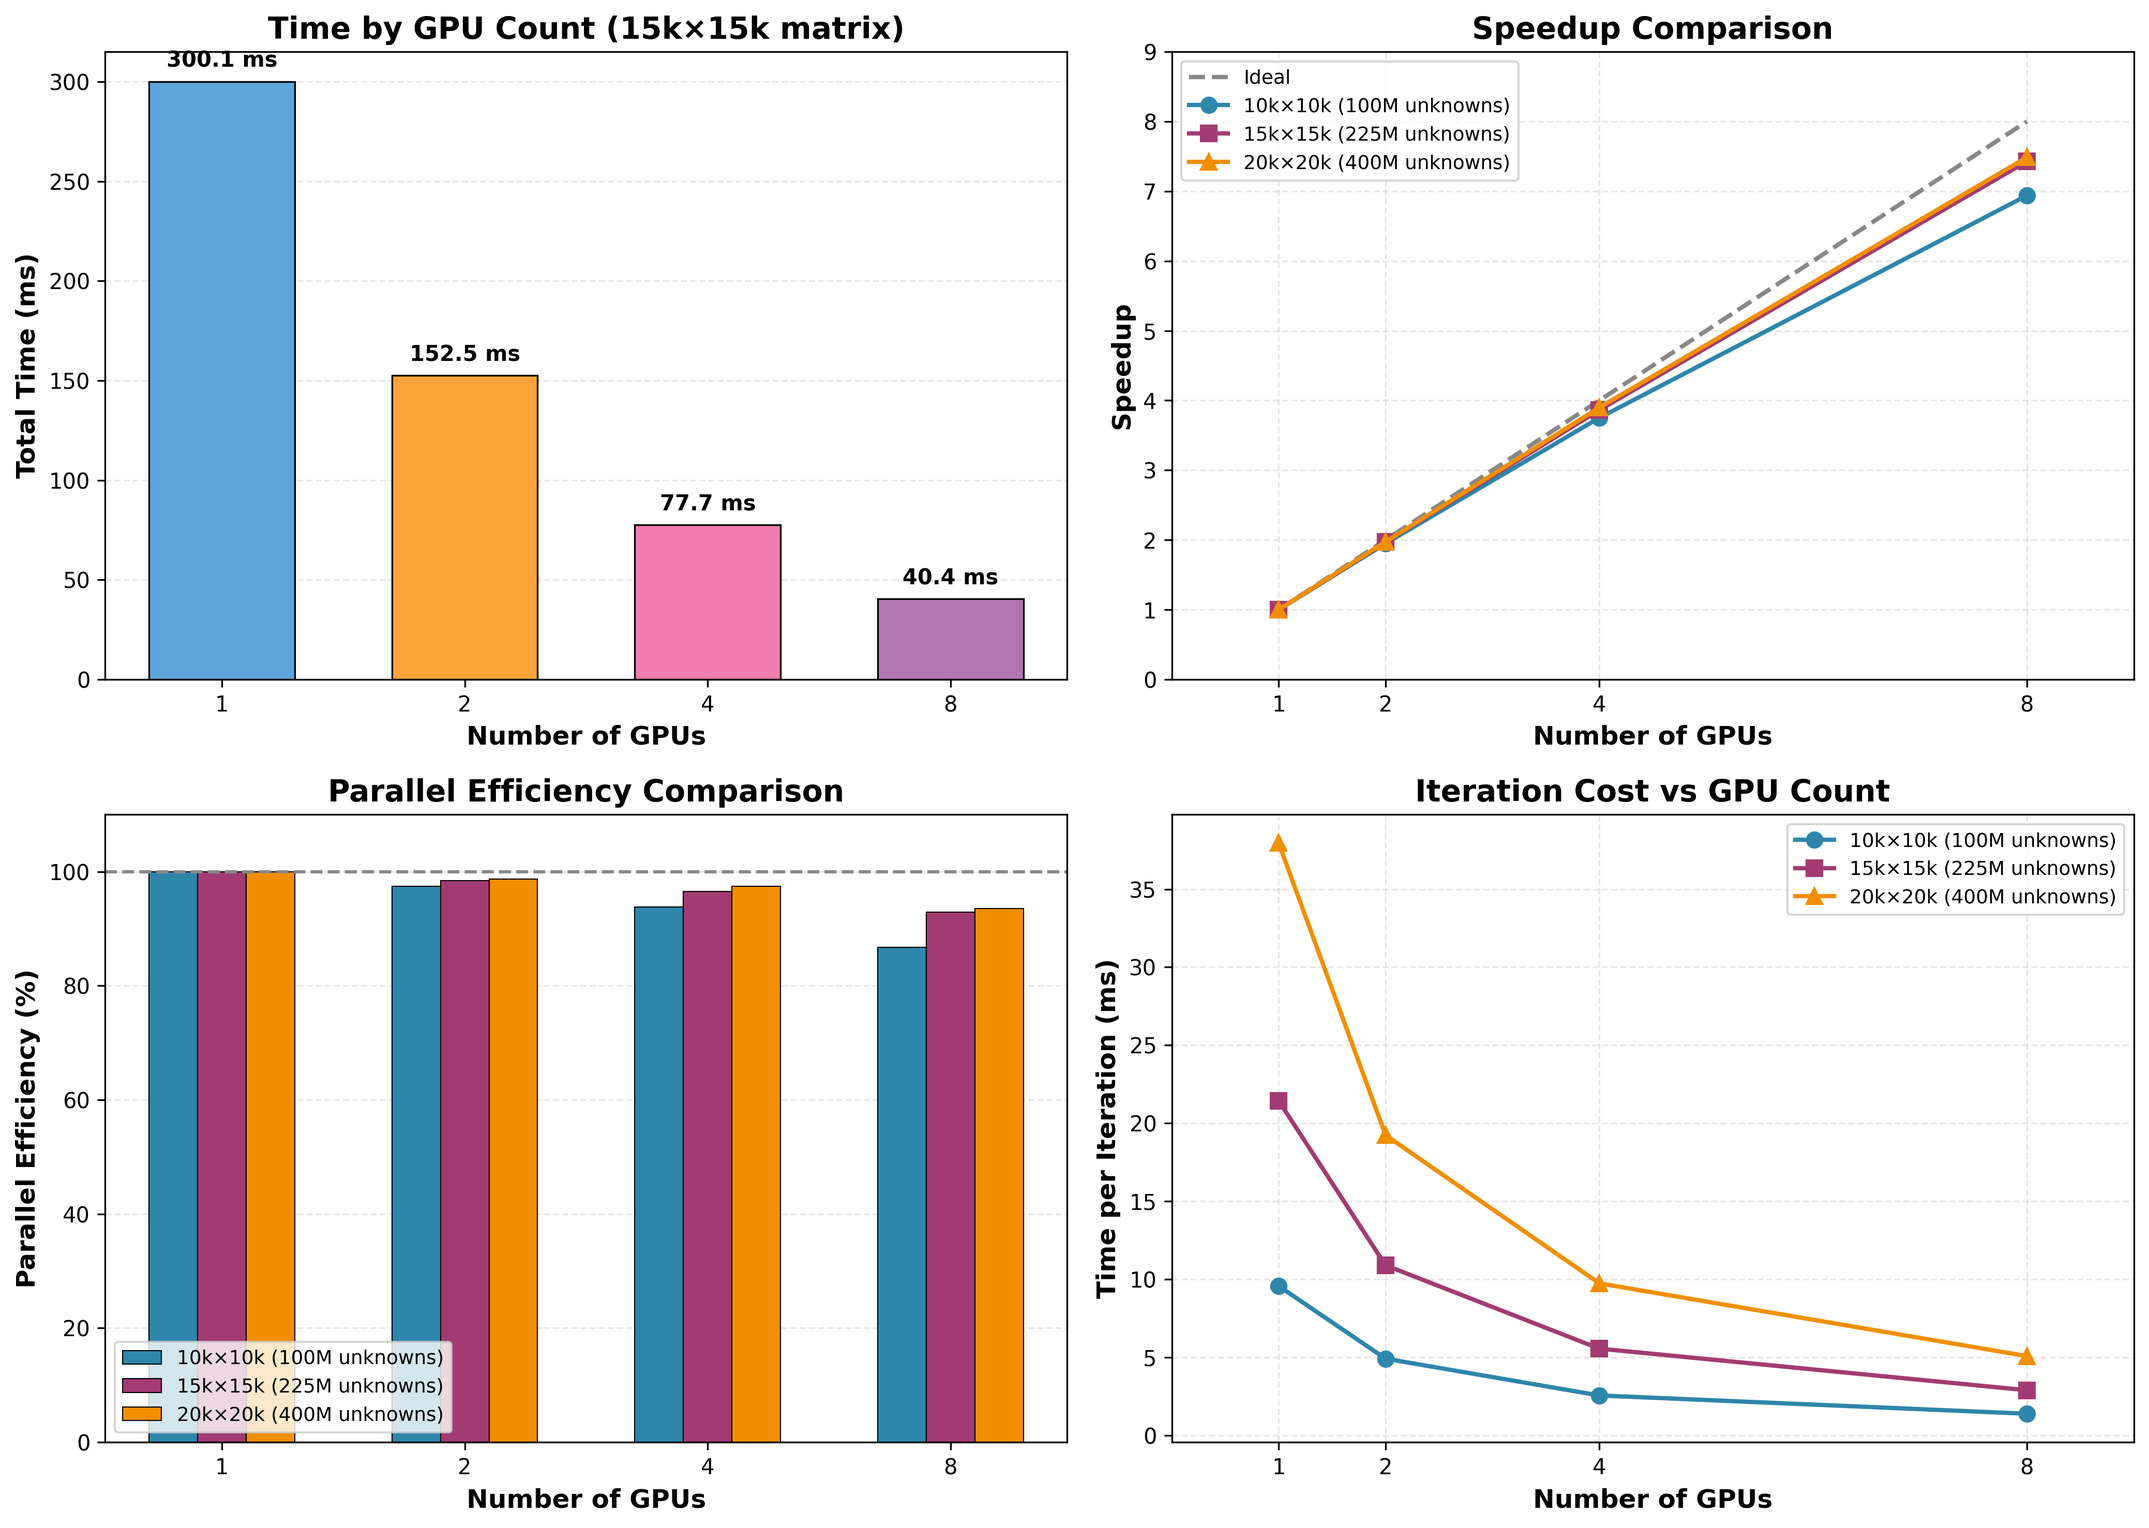
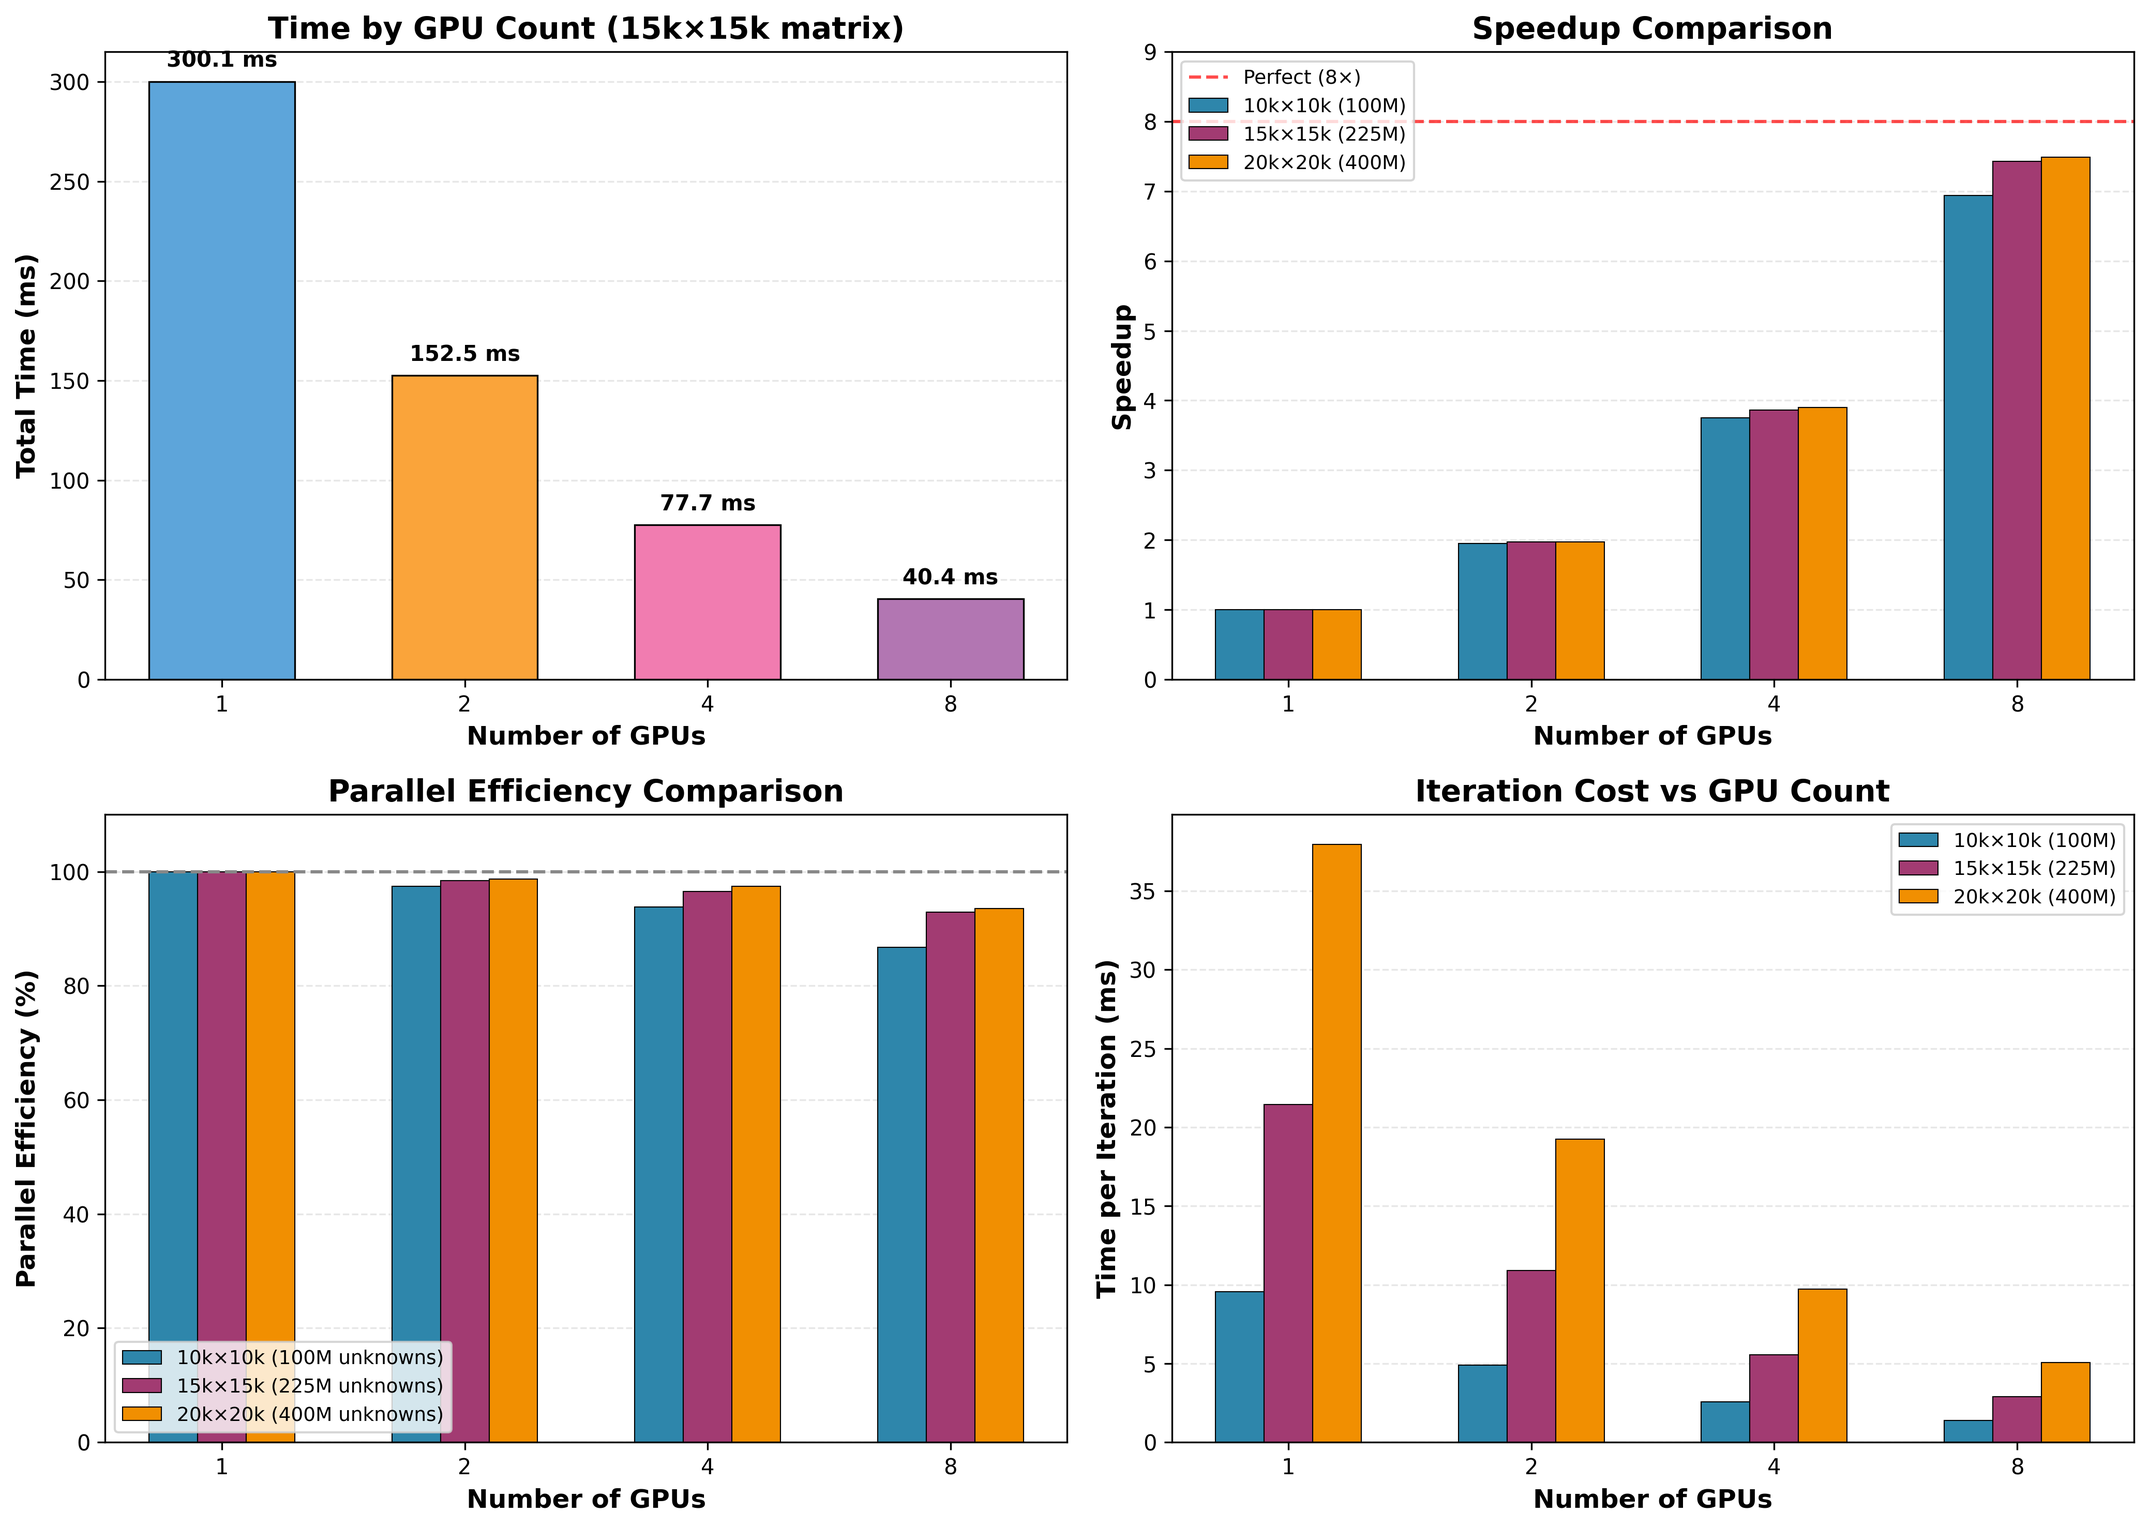
Switch scaling plots from line charts to bar charts

diff --git a/scripts/visualizations/plot_problem_size_scaling.py b/scripts/visualizations/plot_problem_size_scaling.py
@@ -53,54 +53,67 @@ color_ideal = '#888888'
 # ============================================================================
 fig, (ax1, ax2, ax3) = plt.subplots(1, 3, figsize=(16, 5))
 
-# Panel 1: Total Time
-ax1.plot(gpus, times_10k, 'o--', color=color_10k, linewidth=2, markersize=7,
-         label='10k×10k (100M unknowns)')
-ax1.plot(gpus, times_15k, 's-', color=color_15k, linewidth=2, markersize=7,
-         label='15k×15k (225M unknowns)')
-ax1.plot(gpus, times_20k, '^-', color=color_20k, linewidth=2, markersize=7,
-         label='20k×20k (400M unknowns)')
+x_cat = np.arange(len(gpus))
+gpu_labels = ['1', '2', '4', '8']
+width_bar = 0.25
+offsets = [-width_bar, 0, width_bar]
+size_labels = ['10k×10k', '15k×15k', '20k×20k']
+
+# Panel 1: Total Time (grouped bars - categorical x)
+for i, (times, color, label) in enumerate([
+    (times_10k, color_10k, '10k×10k (100M)'),
+    (times_15k, color_15k, '15k×15k (225M)'),
+    (times_20k, color_20k, '20k×20k (400M)'),
+]):
+    ax1.bar(x_cat + offsets[i], times, width=width_bar, color=color,
+            edgecolor='black', linewidth=0.5, label=label)
 ax1.set_xlabel('Number of GPUs', fontweight='bold')
 ax1.set_ylabel('Total Time (ms)', fontweight='bold')
 ax1.set_title('Strong Scaling: Total Time', fontweight='bold')
-ax1.set_xticks(gpus)
-ax1.set_xlim(0, 9)
+ax1.set_xticks(x_cat)
+ax1.set_xticklabels(gpu_labels)
 ax1.legend(loc='upper right', fontsize=9)
-ax1.grid(True, alpha=0.3, linestyle='--')
+ax1.grid(axis='y', alpha=0.3, linestyle='--')
+ax1.set_axisbelow(True)
 
-# Panel 2: Speedup
-ax2.plot(gpus, gpus, '--', color=color_ideal, linewidth=2, label='Ideal (100%)')
-ax2.plot(gpus, speedups_10k, 'o--', color=color_10k, linewidth=2, markersize=7,
-         label='10k×10k (100M unknowns)')
-ax2.plot(gpus, speedups_15k, 's-', color=color_15k, linewidth=2, markersize=7,
-         label='15k×15k (225M unknowns)')
-ax2.plot(gpus, speedups_20k, '^-', color=color_20k, linewidth=2, markersize=7,
-         label='20k×20k (400M unknowns)')
+# Panel 2: Speedup (grouped bars - categorical x)
+for i, (spd, color, label) in enumerate([
+    (speedups_10k, color_10k, '10k×10k (100M)'),
+    (speedups_15k, color_15k, '15k×15k (225M)'),
+    (speedups_20k, color_20k, '20k×20k (400M)'),
+]):
+    ax2.bar(x_cat + offsets[i], spd, width=width_bar, color=color,
+            edgecolor='black', linewidth=0.5, label=label)
+ax2.axhline(y=8, color='red', linestyle='--', linewidth=1.5, alpha=0.7,
+            label='Perfect (8×)')
 ax2.set_xlabel('Number of GPUs', fontweight='bold')
 ax2.set_ylabel('Speedup', fontweight='bold')
 ax2.set_title('Strong Scaling: Speedup', fontweight='bold')
-ax2.set_xticks(gpus)
-ax2.set_xlim(0, 9)
+ax2.set_xticks(x_cat)
+ax2.set_xticklabels(gpu_labels)
 ax2.set_ylim(0, 9)
 ax2.legend(loc='upper left', fontsize=9)
-ax2.grid(True, alpha=0.3, linestyle='--')
+ax2.grid(axis='y', alpha=0.3, linestyle='--')
+ax2.set_axisbelow(True)
 
-# Panel 3: Efficiency
-ax3.plot(gpus, efficiency_10k, 'o--', color=color_10k, linewidth=2, markersize=7,
-         label='10k×10k (100M unknowns)')
-ax3.plot(gpus, efficiency_15k, 's-', color=color_15k, linewidth=2, markersize=7,
-         label='15k×15k (225M unknowns)')
-ax3.plot(gpus, efficiency_20k, '^-', color=color_20k, linewidth=2, markersize=7,
-         label='20k×20k (400M unknowns)')
-ax3.axhline(y=100, color=color_ideal, linestyle='--', linewidth=2, label='Ideal')
+# Panel 3: Efficiency (grouped bars - categorical x)
+for i, (eff, color, label) in enumerate([
+    (efficiency_10k, color_10k, '10k×10k (100M)'),
+    (efficiency_15k, color_15k, '15k×15k (225M)'),
+    (efficiency_20k, color_20k, '20k×20k (400M)'),
+]):
+    ax3.bar(x_cat + offsets[i], eff, width=width_bar, color=color,
+            edgecolor='black', linewidth=0.5, label=label)
+ax3.axhline(y=100, color=color_ideal, linestyle='--', linewidth=1.5, label='Ideal')
 ax3.set_xlabel('Number of GPUs', fontweight='bold')
 ax3.set_ylabel('Parallel Efficiency (%)', fontweight='bold')
 ax3.set_title('Strong Scaling: Efficiency', fontweight='bold')
-ax3.set_xticks(gpus)
-ax3.set_xlim(0, 9)
+ax3.set_xticks(x_cat)
+ax3.set_xticklabels(gpu_labels)
 ax3.set_ylim(80, 105)
 ax3.legend(loc='lower left', fontsize=9)
-ax3.grid(True, alpha=0.3, linestyle='--')
+ax3.grid(axis='y', alpha=0.3, linestyle='--')
+ax3.set_axisbelow(True)
 
 plt.tight_layout()
 plt.savefig('docs/figures/problem_size_scaling_overview.png', dpi=300,
@@ -131,22 +144,27 @@ ax1.set_xticklabels(gpu_labels)
 ax1.grid(axis='y', alpha=0.3, linestyle='--')
 ax1.set_axisbelow(True)
 
-# Panel 2: Speedup Comparison (all 3 sizes, line plot - linear x)
-ax2.plot(gpus, gpus, '--', color=color_ideal, linewidth=2, label='Ideal')
-ax2.plot(gpus, speedups_10k, 'o-', color=color_10k, linewidth=2, markersize=7,
-         label='10k×10k (100M unknowns)')
-ax2.plot(gpus, speedups_15k, 's-', color=color_15k, linewidth=2, markersize=7,
-         label='15k×15k (225M unknowns)')
-ax2.plot(gpus, speedups_20k, '^-', color=color_20k, linewidth=2, markersize=7,
-         label='20k×20k (400M unknowns)')
+# Panel 2: Speedup Comparison (grouped bars - categorical x)
+width_bar2 = 0.2
+offsets2 = [-width_bar2, 0, width_bar2]
+for i, (spd, color, label) in enumerate([
+    (speedups_10k, color_10k, '10k×10k (100M)'),
+    (speedups_15k, color_15k, '15k×15k (225M)'),
+    (speedups_20k, color_20k, '20k×20k (400M)'),
+]):
+    ax2.bar(x_cat + offsets2[i], spd, width=width_bar2, color=color,
+            edgecolor='black', linewidth=0.5, label=label)
+ax2.axhline(y=8, color='red', linestyle='--', linewidth=1.5, alpha=0.7,
+            label='Perfect (8×)')
 ax2.set_xlabel('Number of GPUs', fontweight='bold')
 ax2.set_ylabel('Speedup', fontweight='bold')
 ax2.set_title('Speedup Comparison', fontweight='bold')
-ax2.set_xticks(gpus)
-ax2.set_xlim(0, 9)
+ax2.set_xticks(x_cat)
+ax2.set_xticklabels(gpu_labels)
 ax2.set_ylim(0, 9)
 ax2.legend(loc='upper left', fontsize=9)
-ax2.grid(True, alpha=0.3, linestyle='--')
+ax2.grid(axis='y', alpha=0.3, linestyle='--')
+ax2.set_axisbelow(True)
 
 # Panel 3: Parallel Efficiency (grouped bar chart - categorical x)
 width_bar = 0.2
@@ -171,20 +189,24 @@ ax3.legend(loc='lower left', fontsize=9)
 ax3.grid(axis='y', alpha=0.3, linestyle='--')
 ax3.set_axisbelow(True)
 
-# Panel 4: Iteration Cost vs GPU Count (line plot - linear x)
-ax4.plot(gpus, iter_10k, 'o-', color=color_10k, linewidth=2, markersize=7,
-         label='10k×10k (100M unknowns)')
-ax4.plot(gpus, iter_15k, 's-', color=color_15k, linewidth=2, markersize=7,
-         label='15k×15k (225M unknowns)')
-ax4.plot(gpus, iter_20k, '^-', color=color_20k, linewidth=2, markersize=7,
-         label='20k×20k (400M unknowns)')
+# Panel 4: Iteration Cost vs GPU Count (grouped bars - categorical x)
+width_bar4 = 0.2
+offsets4 = [-width_bar4, 0, width_bar4]
+for i, (ic, color, label) in enumerate([
+    (iter_10k, color_10k, '10k×10k (100M)'),
+    (iter_15k, color_15k, '15k×15k (225M)'),
+    (iter_20k, color_20k, '20k×20k (400M)'),
+]):
+    ax4.bar(x_cat + offsets4[i], ic, width=width_bar4, color=color,
+            edgecolor='black', linewidth=0.5, label=label)
 ax4.set_xlabel('Number of GPUs', fontweight='bold')
 ax4.set_ylabel('Time per Iteration (ms)', fontweight='bold')
 ax4.set_title('Iteration Cost vs GPU Count', fontweight='bold')
-ax4.set_xticks(gpus)
-ax4.set_xlim(0, 9)
+ax4.set_xticks(x_cat)
+ax4.set_xticklabels(gpu_labels)
 ax4.legend(loc='upper right', fontsize=9)
-ax4.grid(True, alpha=0.3, linestyle='--')
+ax4.grid(axis='y', alpha=0.3, linestyle='--')
+ax4.set_axisbelow(True)
 
 plt.tight_layout()
 plt.savefig('docs/figures/problem_size_scaling_detailed.png', dpi=300,

diff --git a/scripts/visualizations/plot_scaling.py b/scripts/visualizations/plot_scaling.py
@@ -35,63 +35,69 @@ color_time = '#2E86AB'
 color_measured = '#A23B72'
 color_ideal = '#888888'
 color_efficiency = '#F18F01'
-color_overhead = ['#B8D4E3', '#A23B72', '#F18F01', '#E74C3C']
+
+bar_colors = ['#5DA5DA', '#FAA43A', '#F17CB0', '#B276B2']
+gpu_labels = ['1', '2', '4', '8']
 
 # ============================================================================
 # Figure 1: scaling_main_a100.png (3-panel overview)
 # ============================================================================
 fig, (ax1, ax2, ax3) = plt.subplots(1, 3, figsize=(16, 5))
 
-# Panel 1: Total Time
-ax1.plot(gpus, times_ms, 'o-', color=color_time, linewidth=2.5, markersize=8, zorder=5)
-for g, t in zip(gpus, times_ms):
-    ax1.annotate(f'{t:.1f}ms', (g, t), textcoords='offset points',
-                 xytext=(8, 8), fontsize=10, fontweight='bold')
+# Panel 1: Total Time (bar chart - categorical x)
+x1_cat = np.arange(len(gpus))
+bars1 = ax1.bar(x1_cat, times_ms, width=0.6, color=bar_colors,
+                edgecolor='black', linewidth=0.8)
+for i, t in enumerate(times_ms):
+    ax1.text(i, t + 5, f'{t:.1f}ms', ha='center', va='bottom',
+             fontsize=10, fontweight='bold')
 ax1.set_xlabel('Number of GPUs', fontweight='bold')
 ax1.set_ylabel('Total Time (ms)', fontweight='bold')
 ax1.set_title('CG Solver Total Time\n15000×15000 stencil, 225M unknowns',
               fontweight='bold')
-ax1.set_xticks(gpus)
-ax1.set_xlim(0, 9)
+ax1.set_xticks(x1_cat)
+ax1.set_xticklabels(gpu_labels)
 ax1.set_ylim(0, 340)
-ax1.grid(True, alpha=0.3, linestyle='--')
+ax1.grid(axis='y', alpha=0.3, linestyle='--')
+ax1.set_axisbelow(True)
 
-# Panel 2: Speedup
-ax2.plot(gpus, ideal_speedup, '--', color=color_ideal, linewidth=2,
-         label='Ideal (linear)', zorder=3)
-ax2.plot(gpus, speedups, 'o-', color=color_measured, linewidth=2.5,
-         markersize=8, label='Measured', zorder=5)
-for g, s in zip(gpus, speedups):
-    ax2.annotate(f'{s:.2f}×', (g, s), textcoords='offset points',
-                 xytext=(-15, -18), fontsize=10, fontweight='bold',
-                 color=color_measured,
-                 bbox=dict(boxstyle='round,pad=0.2', facecolor='white',
-                           edgecolor=color_measured, alpha=0.9))
+# Panel 2: Speedup (bar chart - categorical x)
+x2_cat = np.arange(len(gpus))
+bars2 = ax2.bar(x2_cat, speedups, width=0.6, color=bar_colors,
+                edgecolor='black', linewidth=0.8, label='Measured', zorder=4)
+ax2.axhline(y=8, color='red', linestyle='--', linewidth=1.5, alpha=0.7,
+            label='Perfect Scaling (8×)', zorder=3)
+for i, s in enumerate(speedups):
+    ax2.text(i, s + 0.15, f'{s:.2f}×', ha='center', va='bottom',
+             fontsize=10, fontweight='bold')
 ax2.set_xlabel('Number of GPUs', fontweight='bold')
 ax2.set_ylabel('Speedup', fontweight='bold')
 ax2.set_title('Strong Scaling Speedup\nA100-SXM4-80GB GPUs', fontweight='bold')
-ax2.set_xticks(gpus)
-ax2.set_xlim(0, 9)
+ax2.set_xticks(x2_cat)
+ax2.set_xticklabels(gpu_labels)
 ax2.set_ylim(0, 9)
 ax2.legend(loc='upper left')
-ax2.grid(True, alpha=0.3, linestyle='--')
+ax2.grid(axis='y', alpha=0.3, linestyle='--')
+ax2.set_axisbelow(True)
 
-# Panel 3: Parallel Efficiency
-ax3.plot(gpus, efficiency, 'o-', color=color_efficiency, linewidth=2.5,
-         markersize=8, zorder=5)
+# Panel 3: Parallel Efficiency (bar chart - categorical x)
+x3_cat = np.arange(len(gpus))
+bars3_main = ax3.bar(x3_cat, efficiency, width=0.6, color=bar_colors,
+                     edgecolor='black', linewidth=0.8)
 ax3.axhline(y=100, color=color_ideal, linestyle='--', linewidth=2,
             label='Ideal (100%)', zorder=3)
-for g, e in zip(gpus, efficiency):
-    ax3.annotate(f'{e:.1f}%', (g, e), textcoords='offset points',
-                 xytext=(8, 8), fontsize=10, fontweight='bold')
+for i, e in enumerate(efficiency):
+    ax3.text(i, e + 1, f'{e:.1f}%', ha='center', va='bottom',
+             fontsize=10, fontweight='bold')
 ax3.set_xlabel('Number of GPUs', fontweight='bold')
 ax3.set_ylabel('Parallel Efficiency (%)', fontweight='bold')
 ax3.set_title('Parallel Efficiency\nSpeedup / # GPUs × 100', fontweight='bold')
-ax3.set_xticks(gpus)
-ax3.set_xlim(0, 9)
+ax3.set_xticks(x3_cat)
+ax3.set_xticklabels(gpu_labels)
 ax3.set_ylim(0, 110)
 ax3.legend(loc='lower left')
-ax3.grid(True, alpha=0.3, linestyle='--')
+ax3.grid(axis='y', alpha=0.3, linestyle='--')
+ax3.set_axisbelow(True)
 
 plt.tight_layout()
 plt.savefig('docs/figures/scaling_main_a100.png', dpi=300, bbox_inches='tight')
@@ -103,8 +109,6 @@ plt.close()
 # ============================================================================
 fig, ((ax1, ax2), (ax3, ax4)) = plt.subplots(2, 2, figsize=(14, 10))
 
-bar_colors = ['#5DA5DA', '#FAA43A', '#F17CB0', '#B276B2']
-gpu_labels = ['1', '2', '4', '8']
 x_cat = np.arange(len(gpus))  # categorical positions for bar charts
 
 # Panel 1: Total Solver Time (bar chart - categorical x)
@@ -122,27 +126,23 @@ ax1.set_xticklabels(gpu_labels)
 ax1.grid(axis='y', alpha=0.3, linestyle='--')
 ax1.set_axisbelow(True)
 
-# Panel 2: Speedup with scaling gap
-ax2.fill_between(gpus, speedups, ideal_speedup, alpha=0.15, color=color_measured,
-                 label='Scaling gap', zorder=2)
-ax2.plot(gpus, ideal_speedup, '--', color=color_ideal, linewidth=2,
-         label='Ideal (linear)', zorder=3)
-ax2.plot(gpus, speedups, 'o-', color=color_measured, linewidth=2.5,
-         markersize=8, label='Measured', zorder=5)
-for g, s in zip(gpus, speedups):
-    ax2.annotate(f'{s:.2f}×', (g, s), textcoords='offset points',
-                 xytext=(-15, -18), fontsize=10, fontweight='bold',
-                 color=color_measured,
-                 bbox=dict(boxstyle='round,pad=0.2', facecolor='#FFFFCC',
-                           edgecolor=color_measured, alpha=0.9))
+# Panel 2: Speedup (bar chart - categorical x)
+bars2 = ax2.bar(x_cat, speedups, width=0.6, color=bar_colors,
+                edgecolor='black', linewidth=0.8, zorder=4)
+ax2.axhline(y=8, color='red', linestyle='--', linewidth=1.5, alpha=0.7,
+            label='Perfect Scaling (8×)', zorder=3)
+for i, s in enumerate(speedups):
+    ax2.text(i, s + 0.15, f'{s:.2f}×', ha='center', va='bottom',
+             fontsize=10, fontweight='bold')
 ax2.set_xlabel('Number of GPUs', fontweight='bold')
 ax2.set_ylabel('Speedup', fontweight='bold')
 ax2.set_title('Strong Scaling Speedup\nA100-SXM4-80GB', fontweight='bold')
-ax2.set_xticks(gpus)
-ax2.set_xlim(0, 9)
+ax2.set_xticks(x_cat)
+ax2.set_xticklabels(gpu_labels)
 ax2.set_ylim(0, 9)
 ax2.legend(loc='upper left')
-ax2.grid(True, alpha=0.3, linestyle='--')
+ax2.grid(axis='y', alpha=0.3, linestyle='--')
+ax2.set_axisbelow(True)
 
 # Panel 3: Parallel Efficiency (bar chart - categorical x)
 bars3 = ax3.bar(x_cat, efficiency, width=0.6, color=bar_colors,
